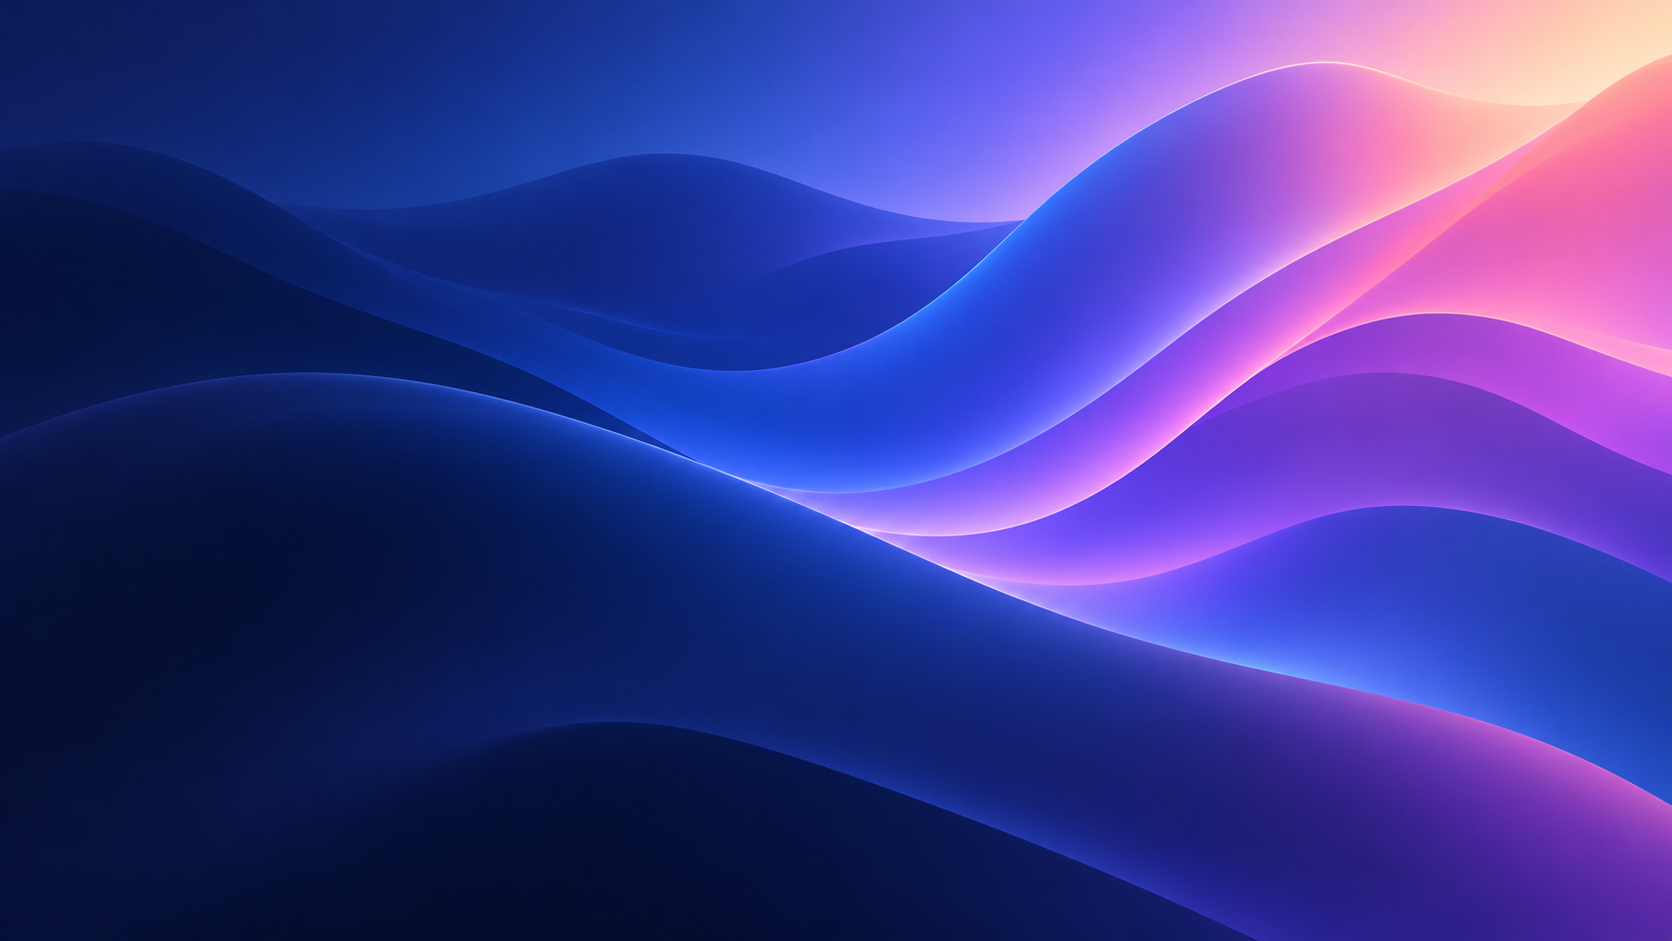
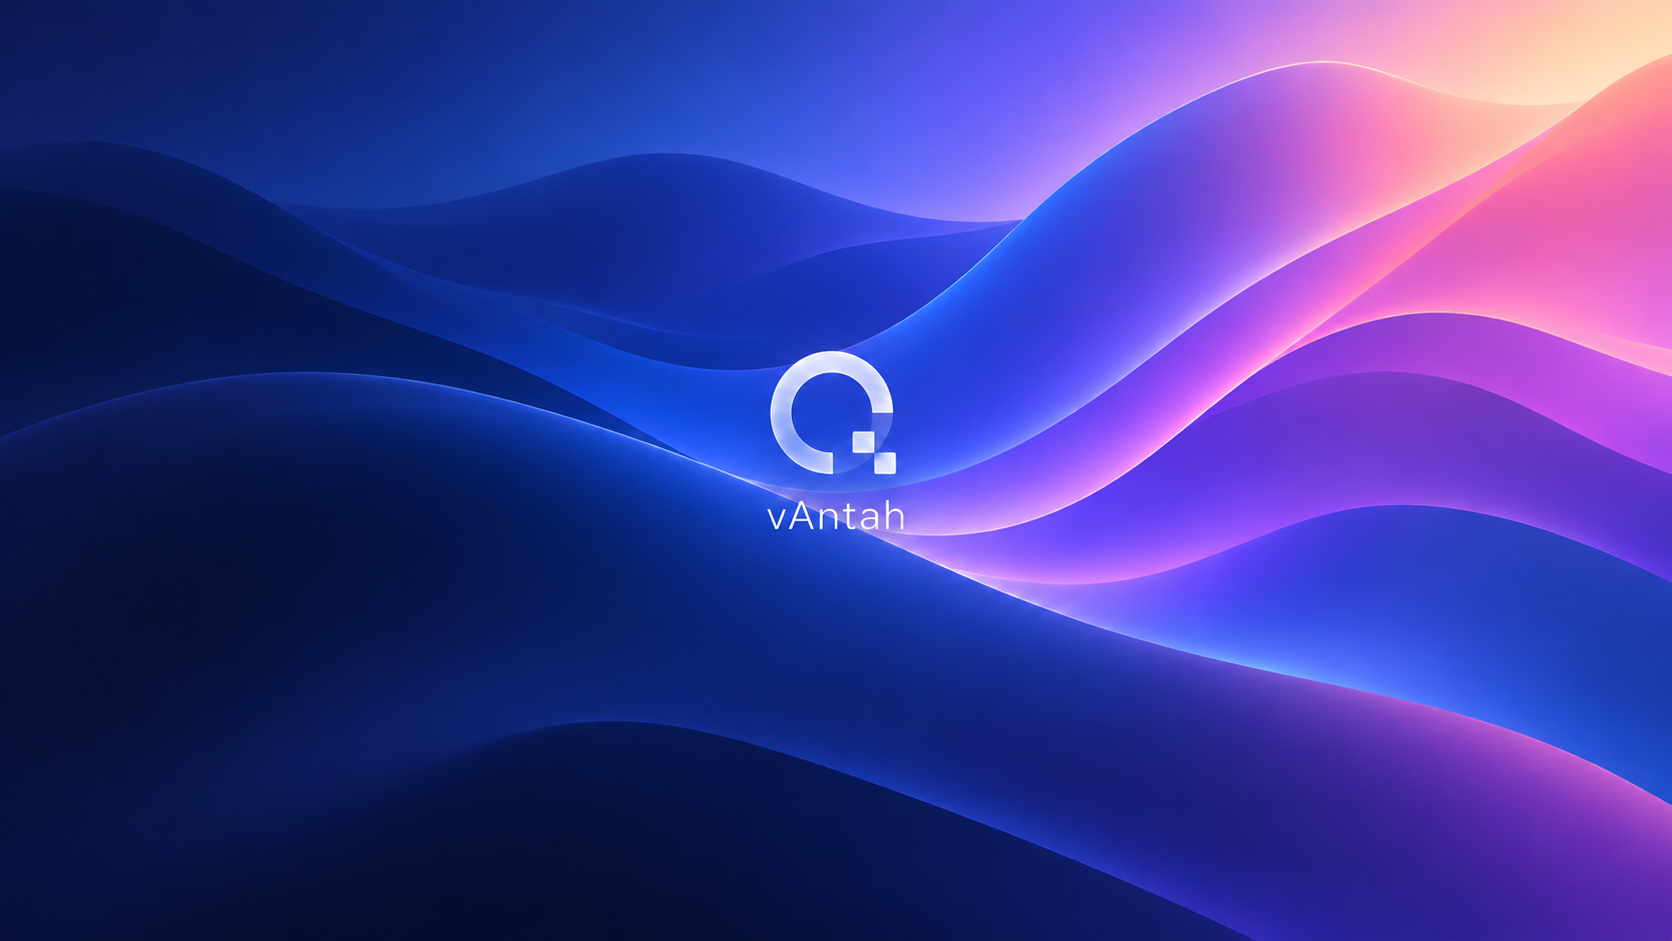
Release vAntah with Qentrah branding and verified one-command installer

diff --git a/shell.py b/shell.py
@@ -1,5 +1,5 @@
 #!/usr/bin/env python3
-"""Alpine Shell: a native GTK desktop shell on the X11 window manager."""
+"""vAntah: a native GTK desktop shell on the X11 window manager."""
 import datetime
 import fcntl
 import json
@@ -24,7 +24,7 @@ LOCK = open(f'/tmp/alpine-shell-{os.getuid()}.lock', 'w')
 try:
     fcntl.flock(LOCK, fcntl.LOCK_EX | fcntl.LOCK_NB)
 except BlockingIOError:
-    raise SystemExit('Alpine Shell is already running.')
+    raise SystemExit('vAntah is already running.')
 PID_FILE.write_text(str(os.getpid()))
 
 
@@ -72,8 +72,8 @@ class Shell:
         self.compositor = None
         self.start_compositor()
         self.extra_signature = None
-        self.bar = self.surface('Alpine Shell — Menu Bar')
-        self.dock = self.surface('Alpine Shell — Dock')
+        self.bar = self.surface('vAntah — Menu Bar')
+        self.dock = self.surface('vAntah — Dock')
         self.build_bar()
         self.build_dock()
         self.dock.connect('size-allocate', self.shape_dock)
@@ -141,7 +141,7 @@ class Shell:
         self.bar.add(box)
         menu = Gtk.Menu()
         for text, callback in [
-            ('About Alpine Shell', self.about),
+            ('About vAntah', self.about),
             ('Applications…', self.toggle_launcher),
             ('Open Home', lambda: self.launch_id('thunar.desktop')),
             ('System Settings…', lambda: self.launch_id('xfce-settings-manager.desktop')),
@@ -162,10 +162,12 @@ class Shell:
             self.mode_items[key] = item
             menu.append(item)
         menu.show_all()
-        brand = Gtk.MenuButton(label='◈')
+        brand = Gtk.MenuButton()
+        self.brand_image = Gtk.Image()
+        brand.add(self.brand_image)
         brand.set_popup(menu)
-        brand.set_tooltip_text('Alpine Shell menu')
-        brand.get_accessible().set_name('Alpine Shell menu')
+        brand.set_tooltip_text('vAntah menu')
+        brand.get_accessible().set_name('vAntah menu')
         style(brand, 'brand-button')
         box.pack_start(brand, False, False, 0)
         self.active_label = style(Gtk.Label(label='Desktop'), 'active-app')
@@ -373,7 +375,7 @@ class Shell:
         return False
 
     def build_launcher(self):
-        win = Gtk.Window(title='Alpine Shell — Applications')
+        win = Gtk.Window(title='vAntah — Applications')
         win.set_name('launcher-window')
         win.set_decorated(False)
         win.set_app_paintable(True)
@@ -424,6 +426,8 @@ class Shell:
             if win:
                 self.style_appearance(win)
         dark = self.preferences['dark']
+        logo = ROOT / 'assets' / ('logo-light.svg' if dark else 'logo.svg')
+        self.brand_image.set_from_pixbuf(GdkPixbuf.Pixbuf.new_from_file_at_scale(str(logo), 22, 22, True))
         theme = 'WhiteSur-Dark' if dark else 'WhiteSur-Light'
         theme_roots = (Path.home() / '.themes', Path.home() / '.local/share/themes', Path('/usr/share/themes'))
         has_whitesur = any((root / theme / 'gtk-3.0').is_dir() for root in theme_roots)
@@ -586,10 +590,10 @@ class Shell:
         menu.popup_at_pointer(None)
 
     def session_menu(self):
-        self.message('Alpine Linux', 'Alpine Shell · native GTK desktop\nUser: sandbox\nSuper+Space opens application search.\nRight-click a dock app for window actions.')
+        self.message('Alpine Linux', 'vAntah · native GTK desktop\nUser: sandbox\nSuper+Space opens application search.\nRight-click a dock app for window actions.')
 
     def about(self):
-        self.message('Alpine Shell', 'A custom native desktop shell for Alpine Linux.\nBuilt with GTK 3, PyGObject, and libwnck.\nSource: ~/.local/share/alpine-shell\nShell code: MIT license\nWhiteSur artwork remains under its upstream licenses.')
+        self.message('vAntah', 'A custom native desktop shell for Alpine Linux.\nBuilt with GTK 3, PyGObject, and libwnck.\nSource: ~/.local/share/alpine-shell\nShell code: MIT license\nWhiteSur artwork remains under its upstream licenses.')
 
     def message(self, title, text):
         dialog = Gtk.MessageDialog(message_type=Gtk.MessageType.INFO, buttons=Gtk.ButtonsType.CLOSE, text=title)

diff --git a/sandbox/test-installer.py b/sandbox/test-installer.py
@@ -1,0 +1,90 @@
+"""Exercise the release installer without network access or real Docker writes."""
+import hashlib
+import os
+from pathlib import Path
+import subprocess
+import sys
+import tarfile
+import tempfile
+import unittest
+
+ROOT = Path(__file__).resolve().parents[1]
+
+
+class InstallerTests(unittest.TestCase):
+    def setUp(self):
+        self.temp = tempfile.TemporaryDirectory()
+        self.addCleanup(self.temp.cleanup)
+        self.base = Path(self.temp.name)
+        fixtures = self.base / 'fixtures'
+        fixtures.mkdir()
+        source = self.base / 'source' / 'vantah-v0.1.0'
+        (source / 'sandbox').mkdir(parents=True)
+        (source / 'sandbox/run.sh').write_text((ROOT / 'sandbox/run.sh').read_text())
+        archive = fixtures / 'vantah-v0.1.0.tar.gz'
+        with tarfile.open(archive, 'w:gz') as handle:
+            handle.add(source, arcname=source.name)
+        digest = hashlib.sha256(archive.read_bytes()).hexdigest()
+        (fixtures / 'SHA256SUMS').write_text(f'{digest}  {archive.name}\n')
+        scripts = self.base / 'bin'
+        scripts.mkdir()
+        self.write_command(scripts / 'docker', '''
+import json, os, sys
+a = sys.argv[1:]
+with open(os.environ['CALLS'], 'a') as f: f.write(json.dumps(a)+'\\n')
+if a[:2] == ['container','inspect']: sys.exit(0 if os.environ['STATE'] != 'missing' else 1)
+if a[0] == 'inspect': print('v0.1.0' if os.environ['STATE'] == 'owned' else 'other')
+if a[0] == 'port': print('127.0.0.1:6099')
+''')
+        self.write_command(scripts / 'curl', '''
+import os, pathlib, shutil, sys
+a=sys.argv[1:]; url=next(x for x in a if x.startswith('https://'))
+name=url.rsplit('/',1)[1]; dest=pathlib.Path(a[a.index('-o')+1])
+shutil.copyfile(pathlib.Path(os.environ['FIXTURES'])/name,dest)
+if os.environ.get('CORRUPT') and name.endswith('.tar.gz'): dest.write_bytes(b'corrupt')
+''')
+        self.env = dict(os.environ, PATH=str(scripts)+os.pathsep+os.environ['PATH'],
+                        FIXTURES=str(fixtures), CALLS=str(self.base/'calls'),
+                        STATE='missing', VANTAH_INSTALL_DIR=str(self.base/'install'))
+
+    def write_command(self, path, body):
+        path.write_text(f'#!{sys.executable}\n'+body)
+        path.chmod(0o755)
+
+    def run_installer(self, **overrides):
+        return subprocess.run(['sh', str(ROOT/'try.sh')], env=dict(self.env, **overrides),
+                              capture_output=True, text=True)
+
+    def test_fresh_verified_download_builds_and_runs(self):
+        result = self.run_installer()
+        self.assertEqual(result.returncode, 0, result.stderr)
+        self.assertTrue((self.base/'install/sandbox/run.sh').exists())
+        self.assertIn('org.qentrah.vantah=v0.1.0', (self.base/'calls').read_text())
+        self.assertIn('127.0.0.1:6081', result.stdout)
+
+    def test_corrupt_archive_is_rejected_before_build(self):
+        result = self.run_installer(CORRUPT='1')
+        self.assertNotEqual(result.returncode, 0)
+        self.assertIn('checksum mismatch', result.stderr)
+        self.assertNotIn('build', (self.base/'calls').read_text())
+
+    def test_existing_owned_container_restarts_at_actual_port(self):
+        result = self.run_installer(STATE='owned')
+        self.assertEqual(result.returncode, 0, result.stderr)
+        self.assertIn('127.0.0.1:6099', result.stdout)
+        self.assertNotIn('build', (self.base/'calls').read_text())
+
+    def test_unrelated_container_is_preserved(self):
+        result = self.run_installer(STATE='unrelated')
+        self.assertNotEqual(result.returncode, 0)
+        self.assertIn('already exists', result.stderr)
+        self.assertNotIn('start', (self.base/'calls').read_text())
+
+    def test_invalid_port_stops_before_download(self):
+        result = self.run_installer(VANTAH_PORT='70000')
+        self.assertNotEqual(result.returncode, 0)
+        self.assertFalse((self.base/'install').exists())
+
+
+if __name__ == '__main__':
+    unittest.main()

diff --git a/README.md b/README.md
@@ -1,6 +1,6 @@
-<p align="center"><img src="assets/logo.svg" width="112" alt="Alpine Glass Shell logo"></p>
+<p align="center"><picture><source media="(prefers-color-scheme: dark)" srcset="assets/logo-light.svg"><img src="assets/logo.svg" width="112" alt="Qentrah logo"></picture></p>
 
-# Alpine Glass Shell
+# vAntah
 
 A native glass desktop shell for Alpine Linux: translucent desktop chrome,
 a live-blurred dock, application search, dark mode, and motion controls.
@@ -13,13 +13,33 @@ Application search in the themed sandbox:
 
 ![Application search](docs/screenshots/applications.jpg)
 
-## Try it locally
+Download the source, logo, wallpaper, and screenshots from the
+[public v0.1.0 release](https://github.com/Up-to-code/vantah/releases/tag/v0.1.0).
+
+## One-command installer
+
+Requires Docker with a running Linux engine, `curl`, `tar`, and `shasum` or
+`sha256sum`. On macOS use Docker Desktop or Colima; on Linux use Docker Engine.
+Windows users can run the command inside WSL with Docker integration.
+
+```sh
+curl -fsSL https://raw.githubusercontent.com/Up-to-code/vantah/v0.1.0/try.sh | sh
+```
+
+The installer downloads the versioned release, checks its SHA-256 checksum,
+builds the image for your machine, and starts a localhost-only desktop. Open the
+URL it prints. Running it again restarts the same container. Set `VANTAH_PORT`,
+`VANTAH_CONTAINER`, or `VANTAH_INSTALL_DIR` to customize it. It requires no sudo and
+does not install Docker or change your host desktop. Stop it with
+`docker stop vantah-demo`. Your container files remain available.
+
+## Build from source
 
 Requires Docker with a running Linux engine. On macOS, Docker Desktop or Colima
 can provide that engine.
 
 ```sh
-git clone https://github.com/Up-to-code/alpine-glass-shell.git
+git clone https://github.com/Up-to-code/vantah.git
 cd alpine-glass-shell
 sh sandbox/run.sh
 ```
@@ -27,17 +47,18 @@ sh sandbox/run.sh
 Open <http://127.0.0.1:6081/vnc.html?autoconnect=true&resize=remote>.
 The demo runs without host mounts as a non-root user, drops Linux capabilities,
 and binds its browser port to localhost. It has no VNC password, so keep the
-port on localhost. The container is named `alpine-glass-demo`; stop and restart
-it with `docker stop alpine-glass-demo` and `docker start alpine-glass-demo`.
+port on localhost. The container is named `vantah-demo`; stop and restart
+it with `docker stop vantah-demo` and `docker start vantah-demo`.
 
 The source is baked into the image. Rebuild after editing it. `run.sh` refuses to
 replace an existing container; use a different name and port to keep its files:
-`sh sandbox/run.sh alpine-glass-demo-v2 6082`.
+`sh sandbox/run.sh vantah-demo-v2 6082`.
 
 The fresh demo uses Adwaita app and window themes. The application-search screenshot shows the
 existing sandbox with separately installed WhiteSur themes and icons. If those
 are already installed, the shell selects them; otherwise it uses Adwaita.
-The wallpaper, logo, and dock icons in this repository are original assets.
+The wallpaper and dock icons are original project assets. vAntah uses the
+Qentrah logo supplied by the project owner.
 
 ## Native implementation
 
@@ -53,7 +74,7 @@ and scale/fade animations. Xfwm remains the underlying window manager.
 - Click a dock app to open it or cycle through its windows. Dots show running apps.
 - Right-click a pinned app for a new window. Additional windows appear in the dock or its overflow menu.
 - Click the sun/moon to switch dark and light appearance. The appearance also applies to GTK apps and window frames.
-- Use the diamond menu to enable **Reduce Motion**, change wallpaper, or restore Xfce panels.
+- Use the Qentrah logo menu to enable **Reduce Motion**, change wallpaper, or restore Xfce panels.
 - Click the clock for a calendar. Time is shown in Africa/Cairo.
 
 Dark mode is the default. Preferences are saved in `~/.config/alpine-shell/settings.json`.
@@ -82,12 +103,13 @@ sh install.sh alpine-gui
 ```
 
 Optional WhiteSur themes and icons are not redistributed here and keep their
-upstream licenses. The shell code and original repository artwork are MIT licensed. This is an original Linux shell inspired by Apple
+upstream licenses. The shell code, wallpaper, and dock icons are MIT licensed. The Qentrah logo
+is project-owner branding, excluded from the artwork license. This is an original Linux shell inspired by Apple
 design, not Apple's iOS or macOS code and not an official 2027 Apple theme.
 
 ## Restore
 
-Choose **Restore Xfce Panels** in the diamond menu. To stop automatic startup,
+Choose **Restore Xfce Panels** in the Qentrah logo menu. To stop automatic startup,
 rename `~/.config/autostart/alpine-shell.desktop` to an extension other than `.desktop`.
 The shell does not delete your Xfce configuration or sandbox files.
 
@@ -104,9 +126,10 @@ was attempted, but the account's review credit limit prevented a result.
 
 ```sh
 python3 -m py_compile shell.py fix-vnc.py
-sh -n install.sh run-shell.sh sandbox/run.sh sandbox/start-desktop.sh
+python3 sandbox/test-installer.py
+sh -n try.sh install.sh run-shell.sh sandbox/run.sh sandbox/start-desktop.sh
 # Test the patched client exported from the running demo:
-docker cp alpine-glass-demo:/usr/share/novnc/core/input/keyboard.js /tmp/alpine-keyboard.js
+docker cp vantah-demo:/usr/share/novnc/core/input/keyboard.js /tmp/alpine-keyboard.js
 node sandbox/test-vnc-keyboard.cjs /tmp/alpine-keyboard.js
 ```
 
